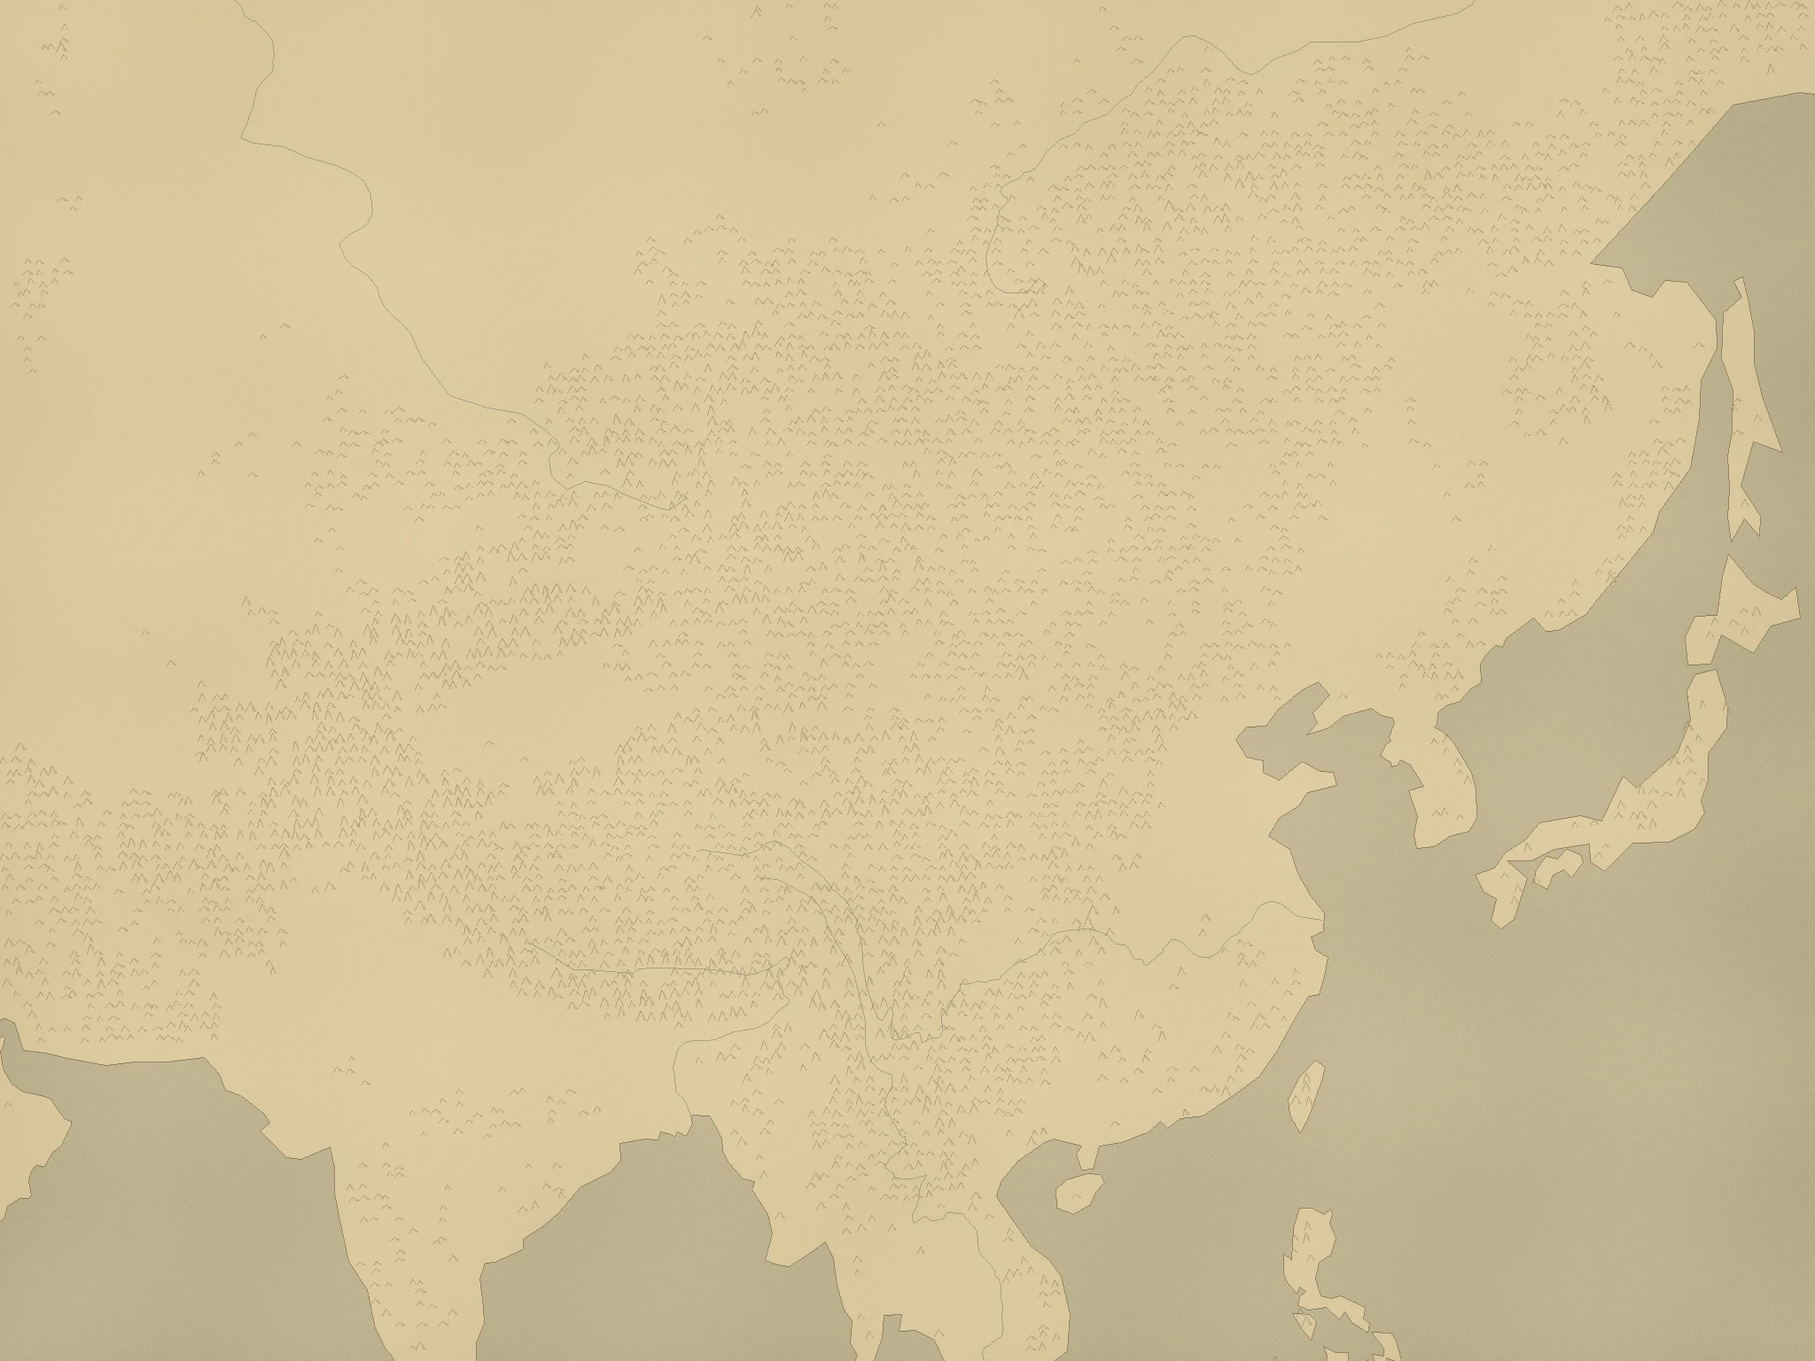
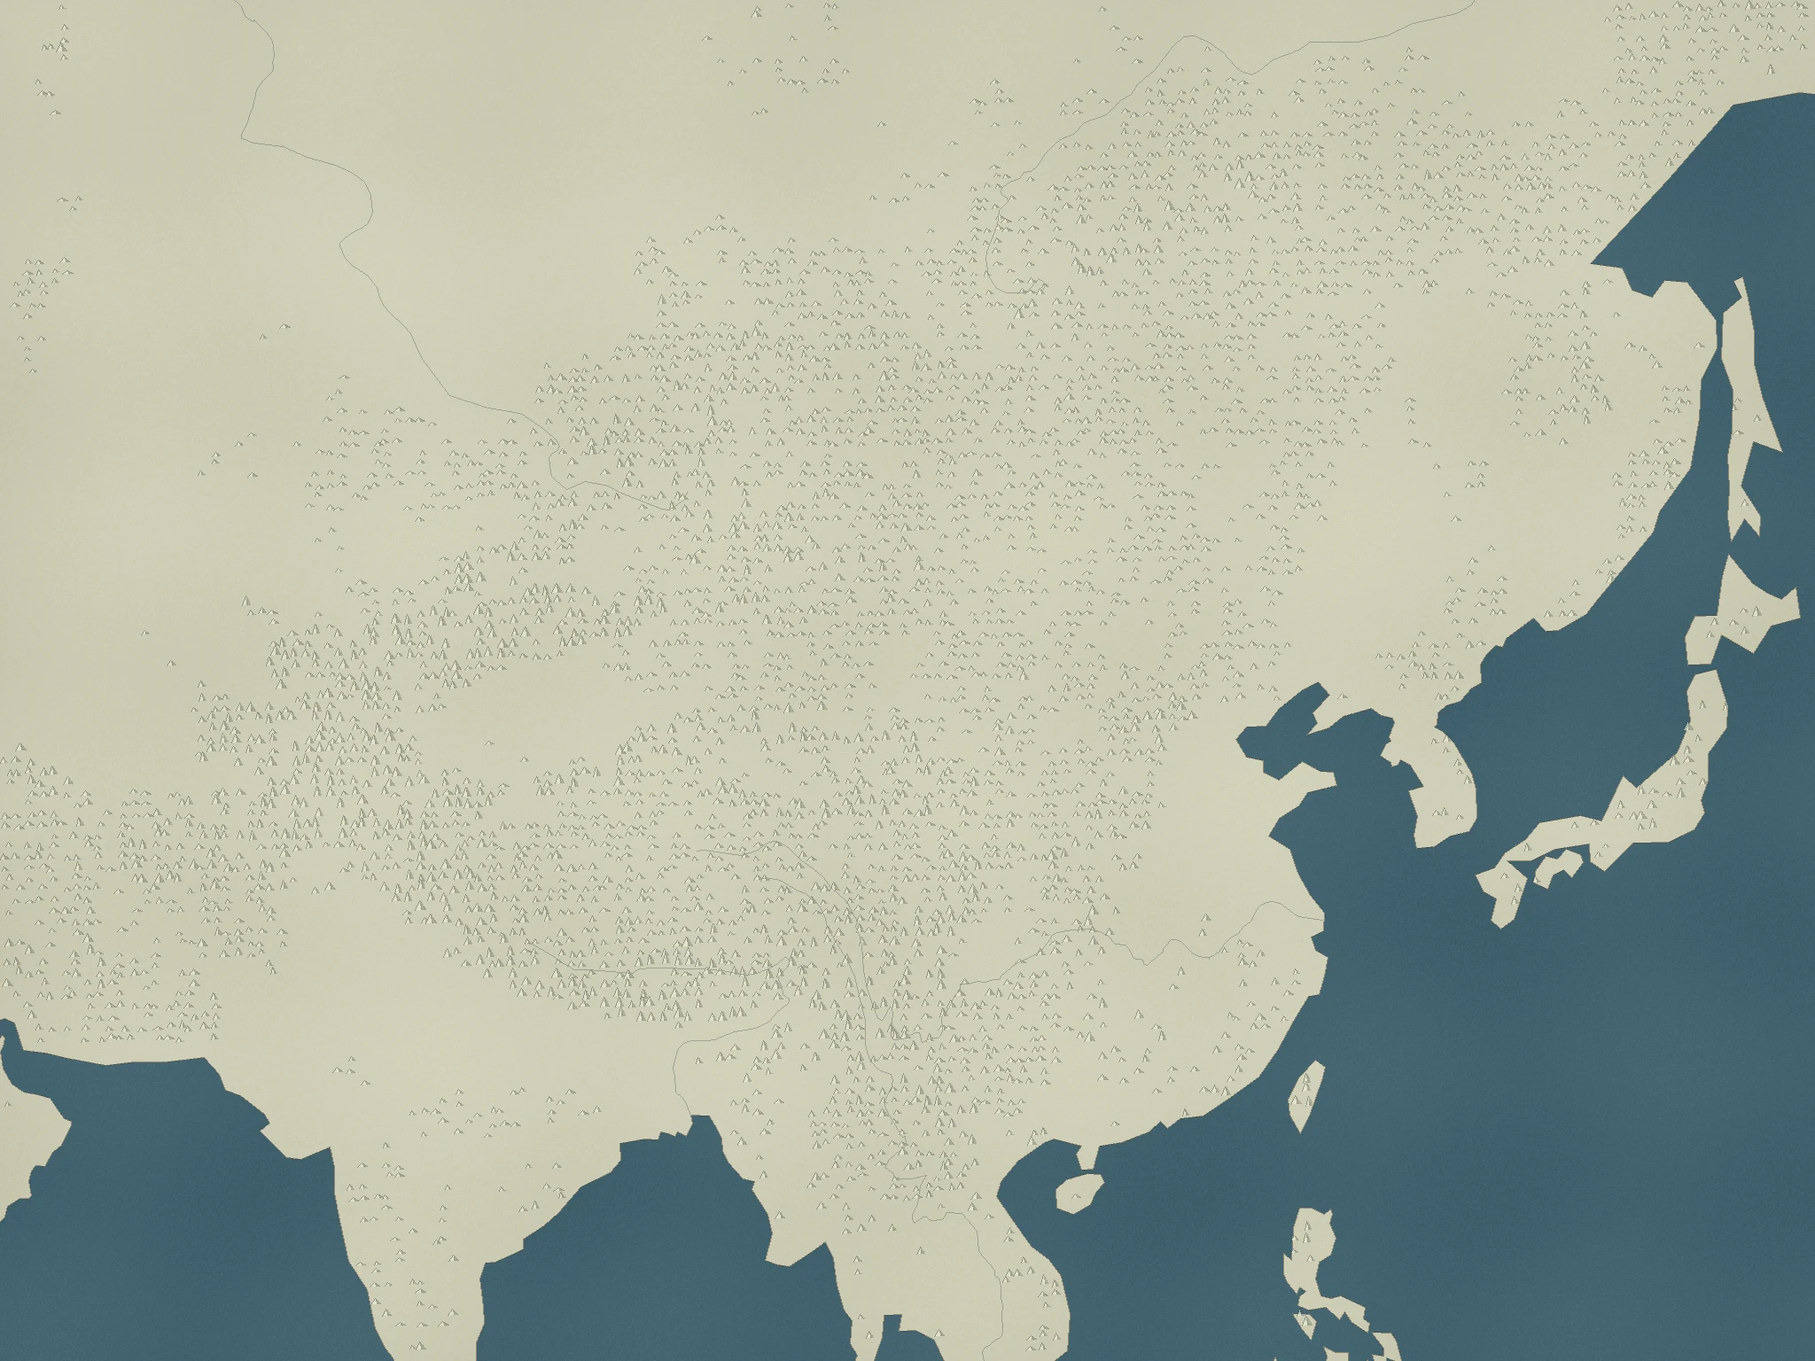
Style strategic atlas as tinted illustrated paper

diff --git a/src/map/three/surface.ts b/src/map/three/surface.ts
@@ -19,9 +19,9 @@ export async function countrySurface(season:SeasonState){
  const root=new Group(),meshes:Mesh[]=[],water=waterMaterial(),riverGroup=new Group();let surface=terrainMaterial(undefined,season,{fade:false});root.add(riverGroup);
  const strategic={value:0},landMask=coverageTexture(land,2048);const landPixels=(landMask.image as HTMLCanvasElement).getContext('2d')!.getImageData(0,0,2048,2048).data;let farms:ReturnType<typeof campaignFarmAtlas>|undefined,farmKey="";
  function bindLand(){const compile=surface.onBeforeCompile;
- surface.onBeforeCompile=(shader,renderer)=>{compile(shader,renderer);shader.uniforms.landMask={value:landMask};shader.uniforms.strategic=strategic;shader.uniforms.strategicRelief={value:strategicRelief};shader.vertexShader=shader.vertexShader.replace('#include <common>','#include <common>\nattribute float campaignElevation;').replace('terrainPosition=position;','terrainPosition=position;terrainPosition.y=campaignElevation;');shader.fragmentShader=shader.fragmentShader.replace('#include <common>','#include <common>\nuniform sampler2D landMask; uniform sampler2D strategicRelief; uniform float strategic;').replaceAll('terrainPosition.y','campaignSurfaceHeight').replace('float slope=1.-abs(normalize(terrainNormal).y);',`vec2 reliefUV=(vec2(terrainPosition.x/${WORLD_KM}+${ORIGIN.x},terrainPosition.z/${WORLD_KM}+${ORIGIN.y})-vec2(${meta.west},${meta.north}))/vec2(${meta.width},${meta.height});vec4 reliefData=texture2D(strategicRelief,reliefUV);vec3 reliefNormal=normalize(reliefData.rgb*2.-1.);float campaignSurfaceHeight=mix(terrainPosition.y,reliefData.a*180.,strategic);float slope=mix(1.-abs(normalize(terrainNormal).y),1.-abs(reliefNormal.y),strategic);`)
+ surface.onBeforeCompile=(shader,renderer)=>{compile(shader,renderer);shader.uniforms.landMask={value:landMask};shader.uniforms.strategicPaper={value:parchment};shader.uniforms.strategic=strategic;shader.uniforms.strategicRelief={value:strategicRelief};shader.vertexShader=shader.vertexShader.replace('#include <common>','#include <common>\nattribute float campaignElevation;').replace('terrainPosition=position;','terrainPosition=position;terrainPosition.y=campaignElevation;');shader.fragmentShader=shader.fragmentShader.replace('#include <common>','#include <common>\nuniform sampler2D landMask; uniform sampler2D strategicPaper; uniform sampler2D strategicRelief; uniform float strategic;').replaceAll('terrainPosition.y','campaignSurfaceHeight').replace('float slope=1.-abs(normalize(terrainNormal).y);',`vec2 reliefUV=(vec2(terrainPosition.x/${WORLD_KM}+${ORIGIN.x},terrainPosition.z/${WORLD_KM}+${ORIGIN.y})-vec2(${meta.west},${meta.north}))/vec2(${meta.width},${meta.height});vec4 reliefData=texture2D(strategicRelief,reliefUV);vec3 reliefNormal=normalize(reliefData.rgb*2.-1.);float campaignSurfaceHeight=mix(terrainPosition.y,reliefData.a*180.,strategic);float slope=mix(1.-abs(normalize(terrainNormal).y),1.-abs(reliefNormal.y),strategic);`)
  .replace('#include <lights_physical_fragment>','normal=normalize(mix(normal,mat3(viewMatrix)*reliefNormal,strategic));\n#include <lights_physical_fragment>')
- .replace('diffuseColor.rgb*=land*',`land=mix(land,vec3(.68,.65,.53)*(1.-stone*.24)+(n-.5)*.035,strategic);float isLand=texture2D(landMask,vec2(terrainPosition.x/${WORLD_KM}+${ORIGIN.x},terrainPosition.z/${WORLD_KM}+${ORIGIN.y})).r;land=mix(mix(vec3(.055,.135,.14),vec3(.39,.43,.39),strategic),land,isLand);\n diffuseColor.rgb*=land*`);};}
+ .replace('diffuseColor.rgb*=land*',`vec3 paperInk=texture2D(strategicPaper,reliefUV).rgb;land=mix(land,mix(vec3(.58,.60,.49),paperInk,.72)*(1.-stone*.20)+(n-.5)*.025,strategic);float isLand=texture2D(landMask,vec2(terrainPosition.x/${WORLD_KM}+${ORIGIN.x},terrainPosition.z/${WORLD_KM}+${ORIGIN.y})).r;land=mix(mix(vec3(.055,.135,.14),paperInk,strategic),land,isLand);\n diffuseColor.rgb*=land*`);};}
  bindLand();
  const tileStore=elevationTiles(detailManifest,(x,y)=>local(`art/campaign/elevation/${x}-${y}.bin.gz`).then(decodeElevation));
  let detail:{meta:DEMGrid;values:Float32Array}|undefined,flat=false,closed=false;

diff --git a/src/map/sample/sample.css b/src/map/sample/sample.css
@@ -15,3 +15,11 @@
 .season-controls{position:absolute;top:80px;right:25px;text-align:right}.season-controls>div{display:flex;justify-content:flex-end}.season-controls button{min-width:42px;padding:6px 12px;background:#202e27ed;border-color:#8f805c}.season-controls button+button{border-left:0}.season-controls button[aria-pressed=true]{background:#47503b;color:#fff0c3;border-bottom:2px solid #c0a66b}.season-controls button:disabled{opacity:.5;cursor:wait}.season-description{margin:6px 0 0;padding:4px 8px;font-size:11px;color:#e4d5af;background:#202e27dc}@media(max-width:650px){.season-controls{top:151px;right:18px}.season-controls button{min-width:38px;min-height:36px;padding:5px 10px}.season-description{font-size:10px}#notice{top:234px}}
 
 .site-picker{display:flex;align-items:center;gap:8px;padding:0 10px;background:#202e27ed;border:1px solid #8f805c;border-left:0;font-size:13px}.site-picker select{font:inherit;color:#eadcbb;background:#25352b;border:0;min-height:38px;max-width:145px;padding:4px}.site-picker select:focus-visible{outline:2px solid #e2c884}.city-medallion:is(img){object-fit:contain;border-radius:0;padding:2px}.three-map-attribution{position:absolute;bottom:18px;right:20px;font-size:12px;color:#e8d9b5}.three-map-attribution[open]{left:auto;bottom:18px;right:20px;z-index:6}.three-map-attribution a{color:#e5cb90}@media(max-width:650px){nav{right:18px;flex-wrap:wrap}.site-picker{padding:0 6px}.site-picker select{max-width:100px}.season-controls{top:191px}#notice{top:265px}}
+
+[data-strategic="true"] .city-label{min-width:90px;min-height:28px;gap:3px;padding:0 12px 0 0;border:0;border-radius:0;background:#192321;box-shadow:none;color:#f4efdb;clip-path:polygon(0 0,94% 0,91% 17%,100% 28%,94% 49%,99% 64%,91% 96%,0 100%)}
+[data-strategic="true"] .city-label:after{display:none}
+[data-strategic="true"] .city-medallion{width:25px;height:30px;flex-basis:25px;border:0;border-radius:0;background:transparent;box-shadow:none;object-fit:contain}
+[data-strategic="true"] .city-caption strong{font-size:14px;letter-spacing:2px;font-weight:600}
+[data-strategic="true"] .city-caption small{display:none}
+[data-strategic="true"] .city-label[aria-current=true]{background:#443d27;color:#ffe49a}
+[data-strategic="true"] .city-label:focus-visible{clip-path:none;outline:2px solid #ffe49a;outline-offset:2px}

diff --git a/src/map/three/ThreeCampaignMap.ts b/src/map/three/ThreeCampaignMap.ts
@@ -85,7 +85,7 @@ export class ThreeCampaignMap{
  }
  fitBounds(bounds:[[number,number],[number,number]],options:{padding?:unknown;pitch?:number;bearing?:number;duration?:number;maxZoom?:number}){const a=projectGround(...bounds[0]),b=projectGround(...bounds[1]),aspect=this.container.clientWidth/Math.max(1,this.container.clientHeight),d=Math.max(Math.abs(a.z-b.z),Math.abs(a.x-b.x)/aspect)/Math.tan(this.camera.fov*Math.PI/360)*.68;this.easeTo({center:[(bounds[0][0]+bounds[1][0])/2,(bounds[0][1]+bounds[1][1])/2],zoom:Math.min(options.maxZoom??12,distanceZoom(Math.max(25,d))),pitch:options.pitch??0,bearing:options.bearing??0,duration:options.duration});}
  zoomIn(options?:{duration?:number}){this.easeTo({zoom:Math.min(12,this.getZoom()+.7),duration:options?.duration});}zoomOut(options?:{duration?:number}){this.easeTo({zoom:Math.max(2.2,this.getZoom()-.7),duration:options?.duration});}
- setTerrain(value:boolean){this.flat=!value;this.cloudMaterial.uniforms.strategic.value=this.flat?1:0;this.surface?.setFlat(this.flat);this.updateClouds();this.actors?.refresh();this.overlaysDirty=true;this.triggerRepaint();}
+ setTerrain(value:boolean){this.flat=!value;this.container.dataset.strategic=String(this.flat);this.cloudMaterial.uniforms.strategic.value=this.flat?1:0;this.surface?.setFlat(this.flat);this.updateClouds();this.actors?.refresh();this.overlaysDirty=true;this.triggerRepaint();}
  resize(){const w=Math.max(1,this.container.clientWidth),h=Math.max(1,this.container.clientHeight);this.renderer.setSize(w,h);this.camera.aspect=w/h;this.camera.updateProjectionMatrix();this.triggerRepaint();}
  on(name:string,callback:(event:AtlasEvent)=>void){const list=this.listeners.get(name)??new Set();list.add(callback);this.listeners.set(name,list);return this;}
  once(name:string,callback:(event:AtlasEvent)=>void){const once=(e:AtlasEvent)=>{this.listeners.get(name)?.delete(once);callback(e);};return this.on(name,once);}

diff --git a/src/map/atlas.css b/src/map/atlas.css
@@ -246,3 +246,13 @@ button.atlas-geographic-label.realm{background:transparent;border:0;padding:0;cu
 .atlas-map[data-scale=strategic] .atlas-geographic-label.range{color:#6d7769;text-shadow:0 1px #e4dfcd}
 .atlas-map .atlas-paper{background:radial-gradient(ellipse at 50% 42%,transparent 48%,#374c432b);box-shadow:inset 0 0 85px #273d3522}
 .three-map-attribution{position:absolute;bottom:5px;right:8px;z-index:2;max-width:330px;font-size:10px;color:#d8d6c3;background:#24332cdd;padding:3px 6px}.three-map-attribution summary{cursor:pointer}.three-map-attribution p{margin:6px;line-height:1.7}.three-map-attribution a{color:#e8d5a2}.three-map-attribution[open]{padding:8px 12px;border:1px solid #998460}
+
+/* Strategic atlas: ink plaques over tinted illustrated paper. */
+.focused-shell .atlas-map [data-strategic="true"] .atlas-place{background:transparent;box-shadow:none;min-height:26px}
+.focused-shell .atlas-map [data-strategic="true"] .atlas-place-label{min-height:26px;padding:3px 13px 3px 7px;background:#192321;color:#f4efdb;border:0;box-shadow:none;font-size:13px;font-weight:600;letter-spacing:2px;clip-path:polygon(0 4%,94% 0,91% 17%,100% 28%,94% 49%,99% 64%,91% 93%,0 100%)}
+.focused-shell .atlas-map [data-strategic="true"] .atlas-place-label small{display:none}
+.focused-shell .atlas-map [data-strategic="true"] .atlas-place-label.is-selected{background:#443d27;color:#ffe49a}
+.focused-shell .atlas-map [data-strategic="true"] .atlas-city-realm{background:transparent;width:25px;flex-basis:25px;height:30px}
+.focused-shell .atlas-map [data-strategic="true"] .atlas-city-realm img{width:25px;height:30px}
+.focused-shell .atlas-map [data-strategic="true"] .atlas-governor{width:25px;height:28px}
+.focused-shell .atlas-map [data-strategic="true"] .atlas-place-label:focus-visible{clip-path:none;outline:2px solid #ffe49a;outline-offset:2px}

diff --git a/src/map/atlasStyle.ts b/src/map/atlasStyle.ts
@@ -43,7 +43,7 @@ export function atlasStyle():StyleSpecification {
       {id:'dry-ground',type:'fill',source:'natural','source-layer':'landcover',minzoom:5,filter:['==',['get','class'],'sand'],paint:{'fill-color':'#d3ba88','fill-opacity':['interpolate',['linear'],['zoom'],5,0,7,.25,10,.36]}},
       {id:'woodland',type:'fill',source:'natural','source-layer':'landcover',minzoom:5,filter:['==',['get','class'],'wood'],paint:{'fill-color':'#506e4e','fill-opacity':['interpolate',['linear'],['zoom'],5,.06,7,.23,10,.35]}},
       {id:'woodland-canopy',type:'fill',source:'natural','source-layer':'landcover',minzoom:6,filter:['==',['get','class'],'wood'],paint:{'fill-pattern':'atlas-canopy','fill-opacity':['interpolate',['linear'],['zoom'],6,0,7,.42,9,.65]}},
-      {id:'realm-tint',type:'fill',source:'realms',paint:{'fill-color':['get','color'],'fill-opacity':['interpolate',['linear'],['zoom'],3,.22,5,.16,8,.035]}},
+      {id:'realm-tint',type:'fill',source:'realms',paint:{'fill-color':['get','color'],'fill-opacity':['interpolate',['linear'],['zoom'],3,.48,4.8,.44,6.2,.10,8,.035]}},
       {id:'territory-fill',type:'fill',source:'territories',paint:{'fill-color':['get','color'],'fill-opacity':0}},
       {id:'territory-tone',type:'fill',source:'territories',paint:{'fill-color':['match',['get','tone'],0,'#fff0c6',1,'#314832','#d4c492'],'fill-opacity':['interpolate',['linear'],['zoom'],4,0,6,.12,9,.04]}},
       {id:'territory-border',type:'line',source:'territories',paint:{'line-color':'#534d39','line-width':['interpolate',['linear'],['zoom'],4,.3,6,.8,9,1.2],'line-opacity':['interpolate',['linear'],['zoom'],4,0,5,.45,8,.65]}},

diff --git a/src/map/WorldMap.tsx b/src/map/WorldMap.tsx
@@ -288,7 +288,7 @@ export function WorldMap(props:Props){
       for(const [key,item] of armyMarkers){const selected=p.selectedArmies.includes(Number(key));item.button.dataset.selected=String(selected);if(item.button.hasAttribute('aria-pressed'))item.button.setAttribute('aria-pressed',String(selected));}
       map.setPaintProperty('territory-fill','fill-color',p.mode==='diplomacy'?['match',['get','id'],...sites.flatMap(s=>[s.id,diplomaticColor(p.world,p.world.realm?.cities[s.id].controller??s.polity)]),'#77796e'] as unknown as ExpressionSpecification:['get','color']);
       map.setPaintProperty('territory-fill','fill-opacity',p.mode==='diplomacy'?.55:0);
-      map.setPaintProperty('realm-tint','fill-opacity',p.mode==='diplomacy'?0:p.mode==='domains'?['interpolate',['linear'],['zoom'],3,.12,5,.06,8,.015]:['interpolate',['linear'],['zoom'],3,.22,5,.16,8,.035]);
+      map.setPaintProperty('realm-tint','fill-opacity',p.mode==='diplomacy'?0:p.mode==='domains'?['interpolate',['linear'],['zoom'],3,.12,5,.06,8,.015]:['interpolate',['linear'],['zoom'],3,.48,4.8,.44,6.2,.10,8,.035]);
       // Domains already draw the chosen hierarchy: do not stack the city catchment grid over it.
       map.setLayoutProperty('territory-border','visibility',p.mode!=='domains'&&['county','city'].includes(p.territoryLevel)?'visible':'none');
       if(lastMode!==p.mode){

diff --git a/scripts/map-sample/build_parchment.py b/scripts/map-sample/build_parchment.py
@@ -8,7 +8,7 @@ m=json.loads((out/'national-terrain.json').read_text());dem=np.fromfile(out/'nat
 w,h=2048,1536;rng=np.random.default_rng(546);yy,xx=np.mgrid[:h,:w]
 grain=(rng.random((h,w))-.5)*9+np.sin(xx*.018+np.sin(yy*.009))*2+np.cos(yy*.021)*2
 edge=np.maximum(abs(xx/w-.5),abs(yy/h-.5))**5*320
-rgb=np.stack([210+grain-edge,193+grain-edge,154+grain-edge],axis=2).clip(0,255).astype('uint8')
+rgb=np.stack([202+grain-edge,202+grain-edge,180+grain-edge],axis=2).clip(0,255).astype('uint8')
 paper=Image.fromarray(rgb).convert('RGBA');ink=Image.new('RGBA',(w,h));d=ImageDraw.Draw(ink)
 def point(p):
  lon,lat=p[:2];lat=max(-85,min(85,lat));x=(lon+180)/360;y=(1-math.asinh(math.tan(math.radians(lat)))/math.pi)/2
@@ -19,14 +19,16 @@ for f in land['features']:
  for polygon in polys:
   for i,ring in enumerate(polygon):
    path=[point(p) for p in ring];md.polygon(path,fill=255 if i==0 else 0);d.line(path,fill=(80,64,41,125),width=1)
-sea=Image.new('RGBA',(w,h),(90,112,107,35));soil=Image.new('RGBA',(w,h),(239,218,170,100));paper=Image.alpha_composite(paper,Image.composite(soil,sea,mask))
+sea=Image.fromarray(np.stack([67+grain,98+grain,111+grain],axis=2).clip(0,255).astype('uint8')).convert('RGBA');soil=Image.new('RGBA',(w,h),(225,224,195,60));paper=Image.alpha_composite(paper,Image.composite(soil,sea,mask))
 for y in range(8,h-8,12):
  for x in range(8,w-8,13):
   altitude=float(dem[y,x]);relief=abs(float(dem[y,x+5])-altitude)+abs(float(dem[y+5,x])-altitude)
   if altitude<450 or relief<75 or rng.random()>.68 or mask.getpixel((x,y))==0:continue
   px=x+(rng.random()-.5)*8;py=y+(rng.random()-.5)*6;peak=min(9,2+relief/200);width=3+rng.random()*3
-  d.line([(px-width,py+2),(px-.8,py-peak),(px+width,py+1)],fill=(81,64,39,80),width=1)
-  for j in range(1,4):d.line([(px+j*.8,py-peak+j*1.5),(px+j*.8+2,py+1)],fill=(81,64,39,42))
+  d.polygon([(px-width,py+2),(px-.8,py-peak),(px+width,py+1)],fill=(69,76,66,90))
+  d.polygon([(px-width,py+2),(px-.8,py-peak),(px,py+1)],fill=(238,239,214,150))
+  d.line([(px-width,py+2),(px-.8,py-peak),(px+width,py+1)],fill=(61,71,64,110),width=1)
+  for j in range(1,4):d.line([(px+j*.8,py-peak+j*1.5),(px+j*.8+2,py+1)],fill=(61,71,64,65))
 for f in json.loads((root/'public/data/rivers.geojson').read_text())['features']:
  g=f['geometry'];paths=[g['coordinates']] if g['type']=='LineString' else g['coordinates'] if g['type']=='MultiLineString' else []
  for path in paths:d.line([point(p) for p in path],fill=(86,99,91,105),width=1)

diff --git a/docs/更新日志/086-关中河洛实时地图样板.md b/docs/更新日志/086-关中河洛实时地图样板.md
@@ -165,3 +165,9 @@
 - 林木按远／中／近设置 0／1000／2400 实例预算，分级保留迟滞区；中景关闭树木投影、近景恢复。城市仅完整模型投射阴影。
 - 滚轮采用累计目标和 160ms 镜头过渡，支持连续输入，遵守减少动态效果偏好。交互期间冻结阴影与光源变换，停稳后更新；移除每帧强制全场景矩阵递归更新，交由渲染器处理。没有通过新增植被数量或任意放大几何来伪造精细度。
 - 3 个局部测试文件共 10 项通过：实际 GLB 低精度顶点量减少、外轮廓宽度保留、营建模块保留、分级迟滞和既有城邑规则。生产构建通过；未实测浏览器帧率，精细度、比例和缩放手感待用户人工验收。未部署或推送。
+
+## 按战略地图截图调整纸绘美术（2026-10-08）
+
+- 战略材质复用全国纸绘纹理，将山形笔触与真实高程明暗一起叠入纸底；预生成纹理改为冷灰纸面、灰蓝海面与有明暗面的山形笔触。已知与隐藏区域使用同一来源的自然地貌图，仍不揭露隐藏政权和实体。
+- 战略政权色块提高可辨识度，继续取实际政权颜色与范围；6.2 以上恢复战役色层强度。战略城名改为短墨条、浅色文字与紧凑国旗，保留原操作和键盘焦点；战役近景铭牌不变。
+- 纸图为一次生成的 2048×1536 WebP，约 301 KiB，拖动不重绘。3 个局部测试文件 9 项通过，生产构建通过；未做 UI 自动化，截图对齐程度待用户人工验收。未部署或推送。

diff --git a/public/art/campaign/README.md b/public/art/campaign/README.md
@@ -39,6 +39,6 @@ SRTM and GMTED2010 terrain data courtesy of the U.S. Geological Survey. Global E
 
 运行时仅加载镜头附近 3×3 分块，最多缓存 48 张解码瓦片；全国资源约 58.9 MiB，不随首屏一次性下载。全国网格约 5 万顶点，近景细化约 14.8 万顶点，沿用真实高程与展示夸张。无需在游戏运行时请求 AWS。植被仍为确定性美术布局，不代表历史林地调查数据。
 
-`national-parchment.webp` 是 `scripts/map-sample/build_parchment.py` 从同一全国 DEM 与 Natural Earth 陆地、水系预生成的纸绘图（2048×1536，约 221 KiB）。仅绘制自然地貌，不包含政权、城邑或军队；运行时复用实际控制遮罩，不再逐次重绘约 315 万像素。
+`national-parchment.webp` 是 `scripts/map-sample/build_parchment.py` 从同一全国 DEM 与 Natural Earth 陆地、水系预生成的纸绘图（2048×1536，约 301 KiB）。仅绘制自然地貌，不包含政权、城邑或军队；运行时复用实际控制遮罩，不再逐次重绘约 315 万像素。
 
 `national-relief.png` 为 `scripts/map-sample/build_strategic_relief.py` 从全国真实 DEM 预生成的战略法线／高程纹理（1024×768，线性 RGBA 数据；RGB 为法线编码，alpha 为展示高程／180）。战略视图统一采样这一纹理，山纹、坡面光照与季节高程效果不再依赖镜头附近的近景网格细化程度。不是随机地形或新增历史数据。
